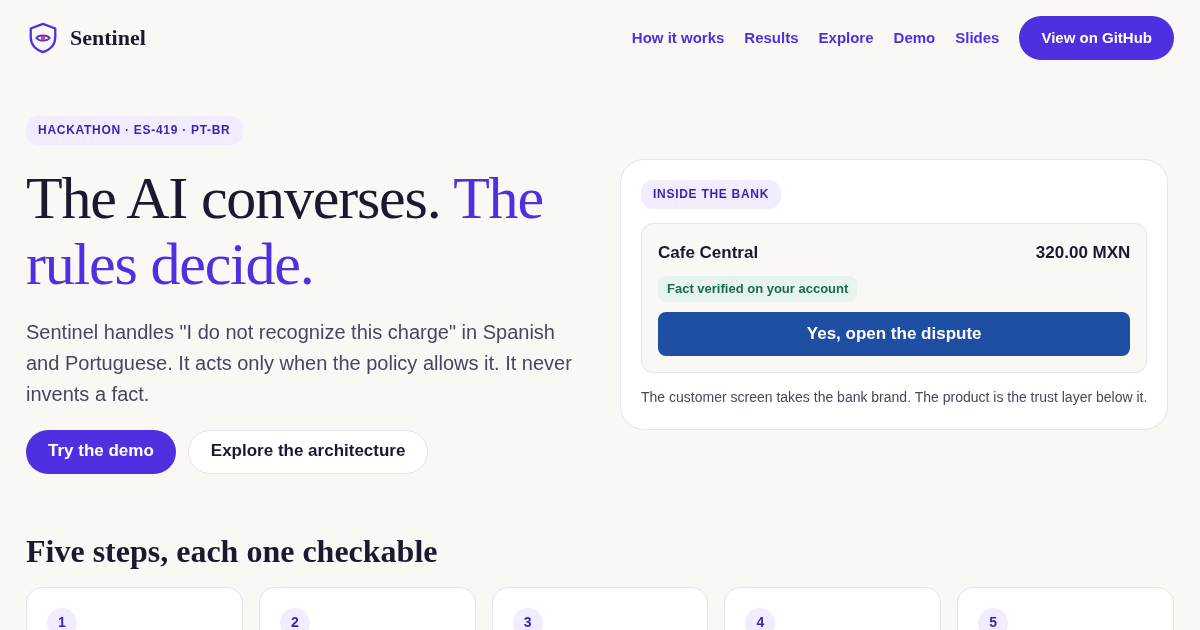
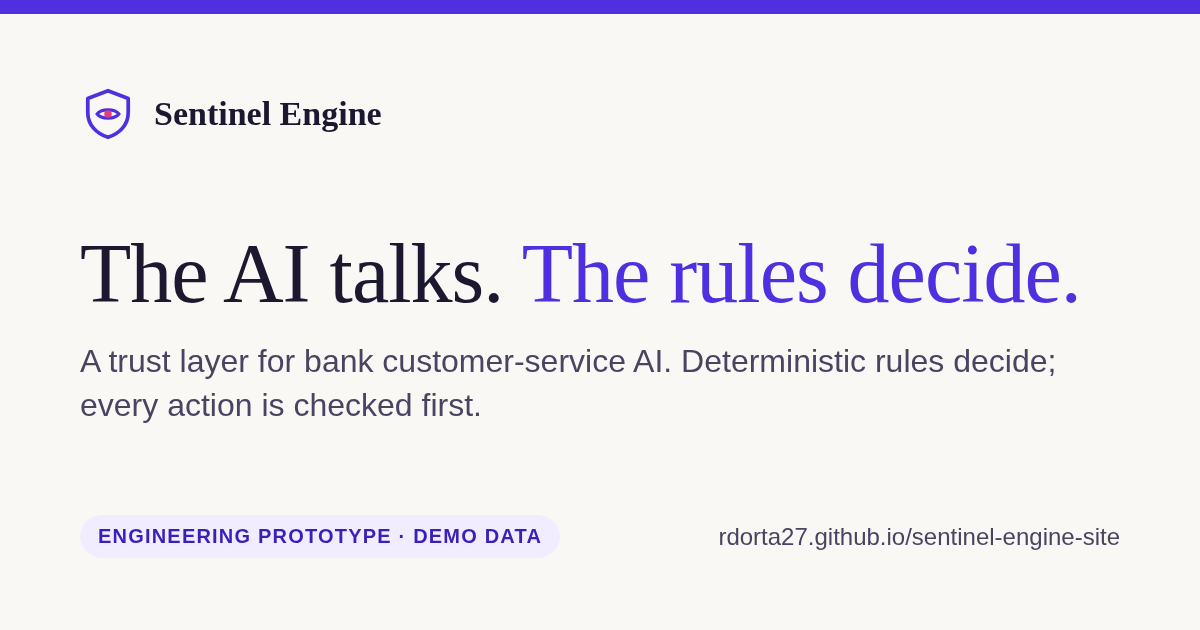
feat: add social metadata with canonical links per language
Sharing previews showed the same title, description and image for every
language, and each copy announced the English address as its own.

Changes:
- add Open Graph and Twitter metadata plus theme-color to every page
- give each language copy its own canonical URL, og:url and og:locale
- translate twitter:title, twitter:description and og:image:alt
- allow the canonical link in the external-request test
- regenerate preview.png from a new source page, scripts/preview.html

diff --git a/site/pt-br/index.html b/site/pt-br/index.html
@@ -6,11 +6,23 @@
 <title>Sentinel Engine</title>
 <meta name="description" content="O Sentinel é a camada de confiança para a IA de atendimento ao cliente de um banco. Transforma uma cobrança não reconhecida em um caso verificado, ou em um atendente bem informado, em espanhol e português.">
 <meta name="color-scheme" content="light dark">
+<meta name="theme-color" content="#faf8f5" media="(prefers-color-scheme: light)">
+<meta name="theme-color" content="#14112a" media="(prefers-color-scheme: dark)">
+<link rel="canonical" href="https://rdorta27.github.io/sentinel-engine-site/pt-br/">
 <meta property="og:type" content="website">
+<meta property="og:site_name" content="Sentinel Engine">
+<meta property="og:locale" content="pt_BR">
+<meta property="og:url" content="https://rdorta27.github.io/sentinel-engine-site/pt-br/">
 <meta property="og:title" content="Sentinel Engine: a IA conversa. As regras decidem.">
 <meta property="og:description" content="Uma camada de confiança para a IA de atendimento ao cliente de um banco. Transforma uma cobrança não reconhecida em um caso verificado, ou em um atendente bem informado.">
 <meta property="og:image" content="https://rdorta27.github.io/sentinel-engine-site/preview.png">
+<meta property="og:image:width" content="1200">
+<meta property="og:image:height" content="630">
+<meta property="og:image:alt" content="Sentinel Engine: a IA conversa. As regras decidem.">
 <meta name="twitter:card" content="summary_large_image">
+<meta name="twitter:title" content="Sentinel Engine: a IA conversa. As regras decidem.">
+<meta name="twitter:description" content="Uma camada de confiança para a IA de atendimento ao cliente de um banco. Transforma uma cobrança não reconhecida em um caso verificado, ou em um atendente bem informado.">
+<meta name="twitter:image" content="https://rdorta27.github.io/sentinel-engine-site/preview.png">
 <link rel="icon" href="../favicon.svg" type="image/svg+xml">
 <link rel="stylesheet" href="../style.css">
 <!--site:alt--><link rel="alternate" hreflang="en" data-lang="en" href="../index.html"><link rel="alternate" hreflang="es-419" data-lang="es-419" href="../es-419/index.html"><link rel="alternate" hreflang="pt-BR" data-lang="pt-br" href="index.html"><script src="../lang.js"></script><!--/site:alt-->

diff --git a/site/es-419/index.html b/site/es-419/index.html
@@ -6,11 +6,23 @@
 <title>Sentinel Engine</title>
 <meta name="description" content="Sentinel es la capa de confianza para la IA de servicio al cliente de un banco. Convierte un cargo no reconocido en un caso verificado, o en un asesor bien informado, en español y portugués.">
 <meta name="color-scheme" content="light dark">
+<meta name="theme-color" content="#faf8f5" media="(prefers-color-scheme: light)">
+<meta name="theme-color" content="#14112a" media="(prefers-color-scheme: dark)">
+<link rel="canonical" href="https://rdorta27.github.io/sentinel-engine-site/es-419/">
 <meta property="og:type" content="website">
+<meta property="og:site_name" content="Sentinel Engine">
+<meta property="og:locale" content="es_LA">
+<meta property="og:url" content="https://rdorta27.github.io/sentinel-engine-site/es-419/">
 <meta property="og:title" content="Sentinel Engine: la IA conversa. Las reglas deciden.">
 <meta property="og:description" content="Una capa de confianza para la IA de servicio al cliente de un banco. Convierte un cargo no reconocido en un caso verificado, o en un asesor bien informado.">
 <meta property="og:image" content="https://rdorta27.github.io/sentinel-engine-site/preview.png">
+<meta property="og:image:width" content="1200">
+<meta property="og:image:height" content="630">
+<meta property="og:image:alt" content="Sentinel Engine: la IA conversa. Las reglas deciden.">
 <meta name="twitter:card" content="summary_large_image">
+<meta name="twitter:title" content="Sentinel Engine: la IA conversa. Las reglas deciden.">
+<meta name="twitter:description" content="Una capa de confianza para la IA de servicio al cliente de un banco. Convierte un cargo no reconocido en un caso verificado, o en un asesor bien informado.">
+<meta name="twitter:image" content="https://rdorta27.github.io/sentinel-engine-site/preview.png">
 <link rel="icon" href="../favicon.svg" type="image/svg+xml">
 <link rel="stylesheet" href="../style.css">
 <!--site:alt--><link rel="alternate" hreflang="en" data-lang="en" href="../index.html"><link rel="alternate" hreflang="es-419" data-lang="es-419" href="index.html"><link rel="alternate" hreflang="pt-BR" data-lang="pt-br" href="../pt-br/index.html"><script src="../lang.js"></script><!--/site:alt-->

diff --git a/site/index.html b/site/index.html
@@ -6,11 +6,23 @@
 <title>Sentinel Engine</title>
 <meta name="description" content="Sentinel is the trust layer for bank customer-service AI. It turns an unrecognized charge into a verified case, or a well-informed advisor, in Spanish and Portuguese.">
 <meta name="color-scheme" content="light dark">
+<meta name="theme-color" content="#faf8f5" media="(prefers-color-scheme: light)">
+<meta name="theme-color" content="#14112a" media="(prefers-color-scheme: dark)">
+<link rel="canonical" href="https://rdorta27.github.io/sentinel-engine-site/">
 <meta property="og:type" content="website">
+<meta property="og:site_name" content="Sentinel Engine">
+<meta property="og:locale" content="en_US">
+<meta property="og:url" content="https://rdorta27.github.io/sentinel-engine-site/">
 <meta property="og:title" content="Sentinel Engine: the AI talks. The rules decide.">
 <meta property="og:description" content="A trust layer for bank customer-service AI. It turns an unrecognized charge into a verified case, or a well-informed advisor.">
 <meta property="og:image" content="https://rdorta27.github.io/sentinel-engine-site/preview.png">
+<meta property="og:image:width" content="1200">
+<meta property="og:image:height" content="630">
+<meta property="og:image:alt" content="Sentinel Engine: the AI talks. The rules decide.">
 <meta name="twitter:card" content="summary_large_image">
+<meta name="twitter:title" content="Sentinel Engine: the AI talks. The rules decide.">
+<meta name="twitter:description" content="A trust layer for bank customer-service AI. It turns an unrecognized charge into a verified case, or a well-informed advisor.">
+<meta name="twitter:image" content="https://rdorta27.github.io/sentinel-engine-site/preview.png">
 <link rel="icon" href="favicon.svg" type="image/svg+xml">
 <link rel="stylesheet" href="style.css">
 <!--site:alt--><link rel="alternate" hreflang="en" data-lang="en" href="index.html"><link rel="alternate" hreflang="es-419" data-lang="es-419" href="es-419/index.html"><link rel="alternate" hreflang="pt-BR" data-lang="pt-br" href="pt-br/index.html"><script src="lang.js"></script><!--/site:alt-->

diff --git a/scripts/preview.html b/scripts/preview.html
@@ -1,0 +1,28 @@
+<!doctype html>
+<!-- Source of site/preview.png, the 1200x630 sharing image. Render it with:
+     chromium --headless --disable-gpu --hide-scrollbars --window-size=1200,630 --screenshot=site/preview.png scripts/preview.html -->
+<html lang="en">
+<head>
+<meta charset="utf-8">
+<style>
+  html, body { margin: 0; width: 1200px; height: 630px; overflow: hidden; }
+  body { background: #faf8f5; color: #1c1830; font-family: system-ui, -apple-system, "Segoe UI", Roboto, Arial, sans-serif;
+         display: flex; flex-direction: column; justify-content: space-between; padding: 72px 80px; box-sizing: border-box;
+         border-top: 14px solid #4f2fe0; }
+  .name { display: flex; align-items: center; gap: 18px; font: 700 34px/1 Georgia, "Times New Roman", serif; }
+  h1 { margin: 0; font: 400 84px/1.05 Georgia, "Times New Roman", serif; letter-spacing: -1px; }
+  h1 span { color: #4f2fe0; }
+  p { margin: 22px 0 0; font-size: 32px; line-height: 1.35; color: #4a4460; max-width: 980px; }
+  .foot { display: flex; justify-content: space-between; align-items: center; font-size: 24px; color: #4a4460; }
+  .tag { font-weight: 700; font-size: 20px; letter-spacing: .06em; text-transform: uppercase; padding: 10px 18px; border-radius: 22px; background: #f1edff; color: #3a1fb8; }
+</style>
+</head>
+<body>
+  <div class="name"><img src="../site/favicon.svg" width="56" height="56" alt="">Sentinel Engine</div>
+  <div>
+    <h1>The AI talks. <span>The rules decide.</span></h1>
+    <p>A trust layer for bank customer-service AI. Deterministic rules decide; every action is checked first.</p>
+  </div>
+  <div class="foot"><span class="tag">Engineering prototype · demo data</span><span>rdorta27.github.io/sentinel-engine-site</span></div>
+</body>
+</html>

diff --git a/scripts/localize.py b/scripts/localize.py
@@ -33,7 +33,9 @@ VOID = {"meta", "link", "br", "img", "input", "hr", "area", "base", "col", "sour
 INLINE = {"a", "b", "strong", "em", "code", "span", "small", "br", "abbr", "i", "u", "sup", "sub", "text", "tspan", "cite"}
 ASSET_EXT = {".css", ".js", ".png", ".ico", ".json", ".pdf", ".jpg", ".webp", ".svg"}
 ATTRS = ("aria-label", "alt", "data-demo", "data-prod", "data-note-demo", "data-note-prod", "placeholder")
-META_NAMES = {"description", "og:title", "og:description"}
+META_NAMES = {"description", "og:title", "og:description", "twitter:title", "twitter:description", "og:image:alt"}
+PUBLIC = "https://rdorta27.github.io/sentinel-engine-site/"
+OG_LOCALE = {"en": "en_US", "es-419": "es_LA", "pt-br": "pt_BR"}
 
 TOKEN = re.compile(r"<!--.*?-->|<!doctype[^>]*>|<(script|style)\b[^>]*>.*?</\1>|<[^>]+>|[^<]+", re.S | re.I)
 NUM = re.compile(r"&#?\w+;|\d+(?:[.,]\d+)*%?")
@@ -333,6 +335,11 @@ def finalize(html: str, page: str, lang: str, mirrored: set[str]) -> str:
             lambda m: m.group(1) + cur + m.group(2) + href + m.group(3),
             html,
         )
+    # Canonical address, og:url and og:locale of this language copy.
+    public = PUBLIC + re.sub(r"(^|/)index\.html$", r"\1", out_page)
+    html = re.sub(r'(<link rel="canonical" href=")[^"]*(")', lambda m: m.group(1) + public + m.group(2), html)
+    html = re.sub(r'(<meta property="og:url" content=")[^"]*(")', lambda m: m.group(1) + public + m.group(2), html)
+    html = re.sub(r'(<meta property="og:locale" content=")[^"]*(")', lambda m: m.group(1) + OG_LOCALE[lang] + m.group(2), html)
     html = re.sub(r'(<html lang=")[^"]*(")', lambda m: m.group(1) + dict((d, h) for d, _l, _n, h in chrome.LANGS)[lang] + m.group(2), html, count=1)
     if "</head>" in html:
         alts = "".join(

diff --git a/scripts/test_site.py b/scripts/test_site.py
@@ -59,8 +59,8 @@ def test_no_secret_on_the_site():
 
 
 def test_no_external_request():
-    # Links (<a href>) may leave the site. Loaded resources may not.
-    load = re.compile(r'<(?:script|img|link|iframe|source|video|audio)\b[^>]*?(?:src|href)="(?:https?:)?//', re.I)
+    # Links (<a href>, the canonical address) may leave the site. Loaded resources may not.
+    load = re.compile(r'<(?:script|img|link(?![^>]*rel="canonical")|iframe|source|video|audio)\b[^>]*?(?:src|href)="(?:https?:)?//', re.I)
     for page in PAGES:
         assert not load.search(page.read_text()), page.name
     for css in SITE.rglob("*.css"):
